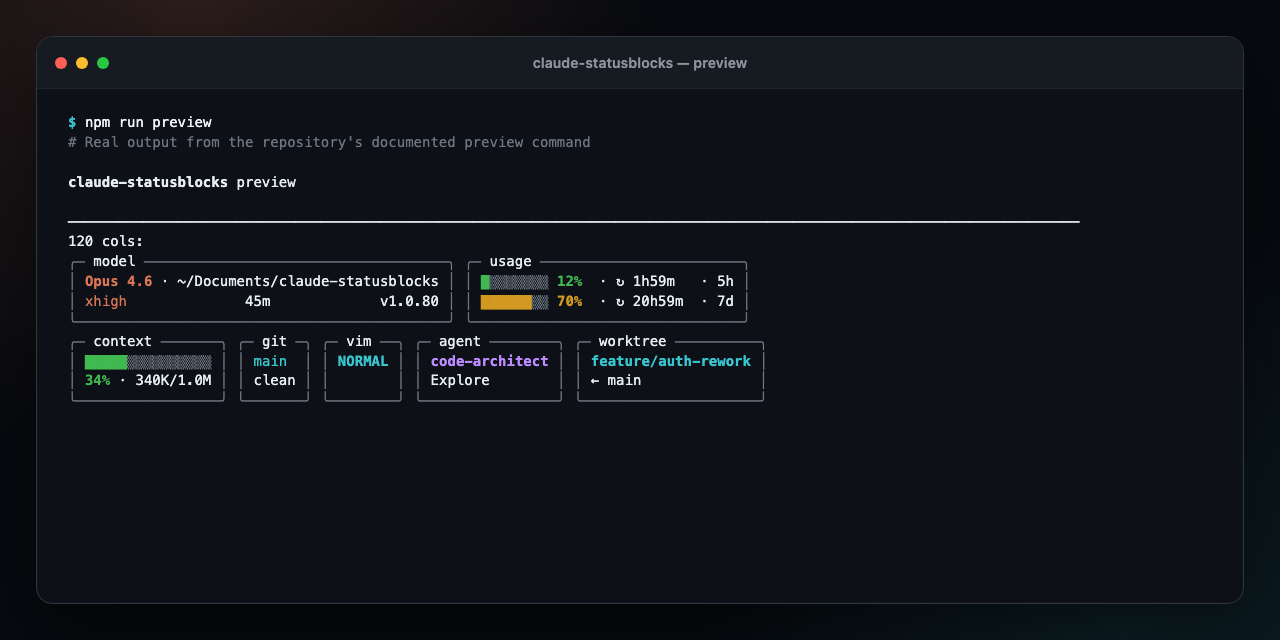
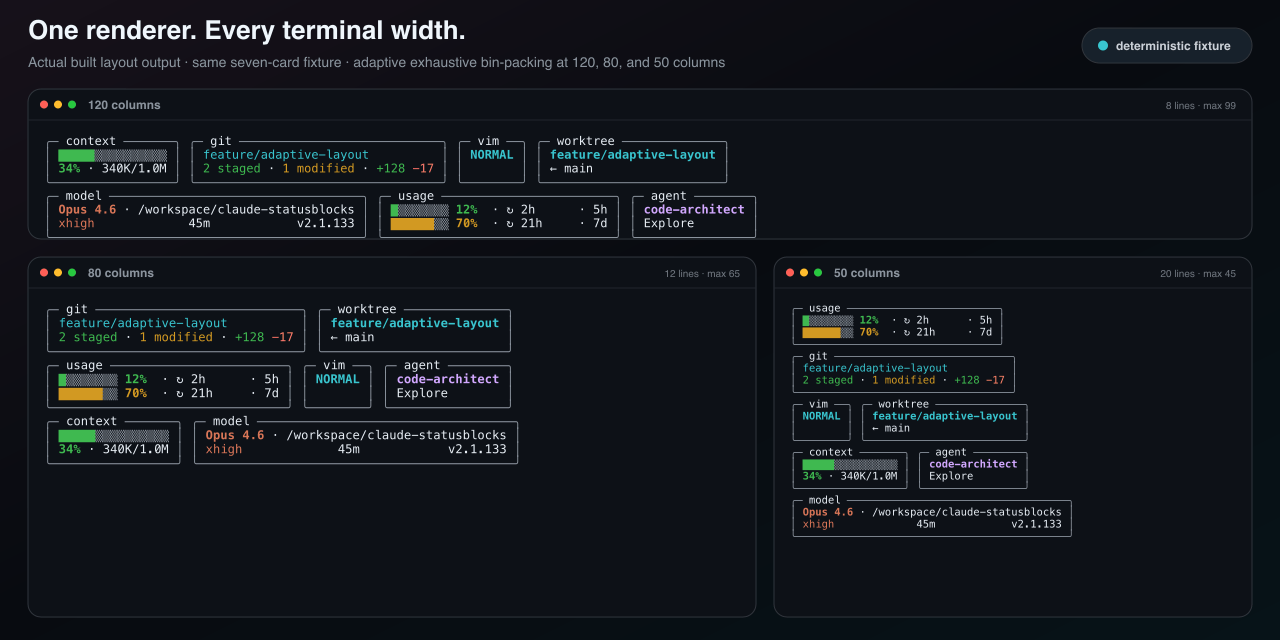
docs: prove adaptive layouts across terminal widths (#7)

diff --git a/README.md b/README.md
@@ -1,8 +1,8 @@
 <p align="center">
-  <img src="docs/claude-statusblocks-preview.png" alt="Terminal preview of claude-statusblocks adaptive cards" width="100%">
+  <img src="docs/claude-statusblocks-preview.png" alt="Deterministic claude-statusblocks renderer output showing the same seven cards bin-packed at 120, 80, and 50 terminal columns" width="100%">
 </p>
 
-<p align="center"><em>Real output from <code>npm run preview</code> at 120 columns.</em></p>
+<p align="center"><em>Actual built renderer output from a neutral, deterministic fixture at 120, 80, and 50 columns. The checked-in SVG source is regenerated with <code>npm run preview:asset</code>.</em></p>
 
 # claude-statusblocks
 
@@ -95,6 +95,7 @@ npm run build       # compile TypeScript
 npm run dev         # watch mode
 npm test            # run vitest suite
 npm run preview     # render with mock data
+npm run preview:asset # regenerate the deterministic README preview SVG
 ```
 
 Tests are co-located with source files (`*.test.ts`). The project uses vitest with fake timers for deterministic campaign engine testing.
